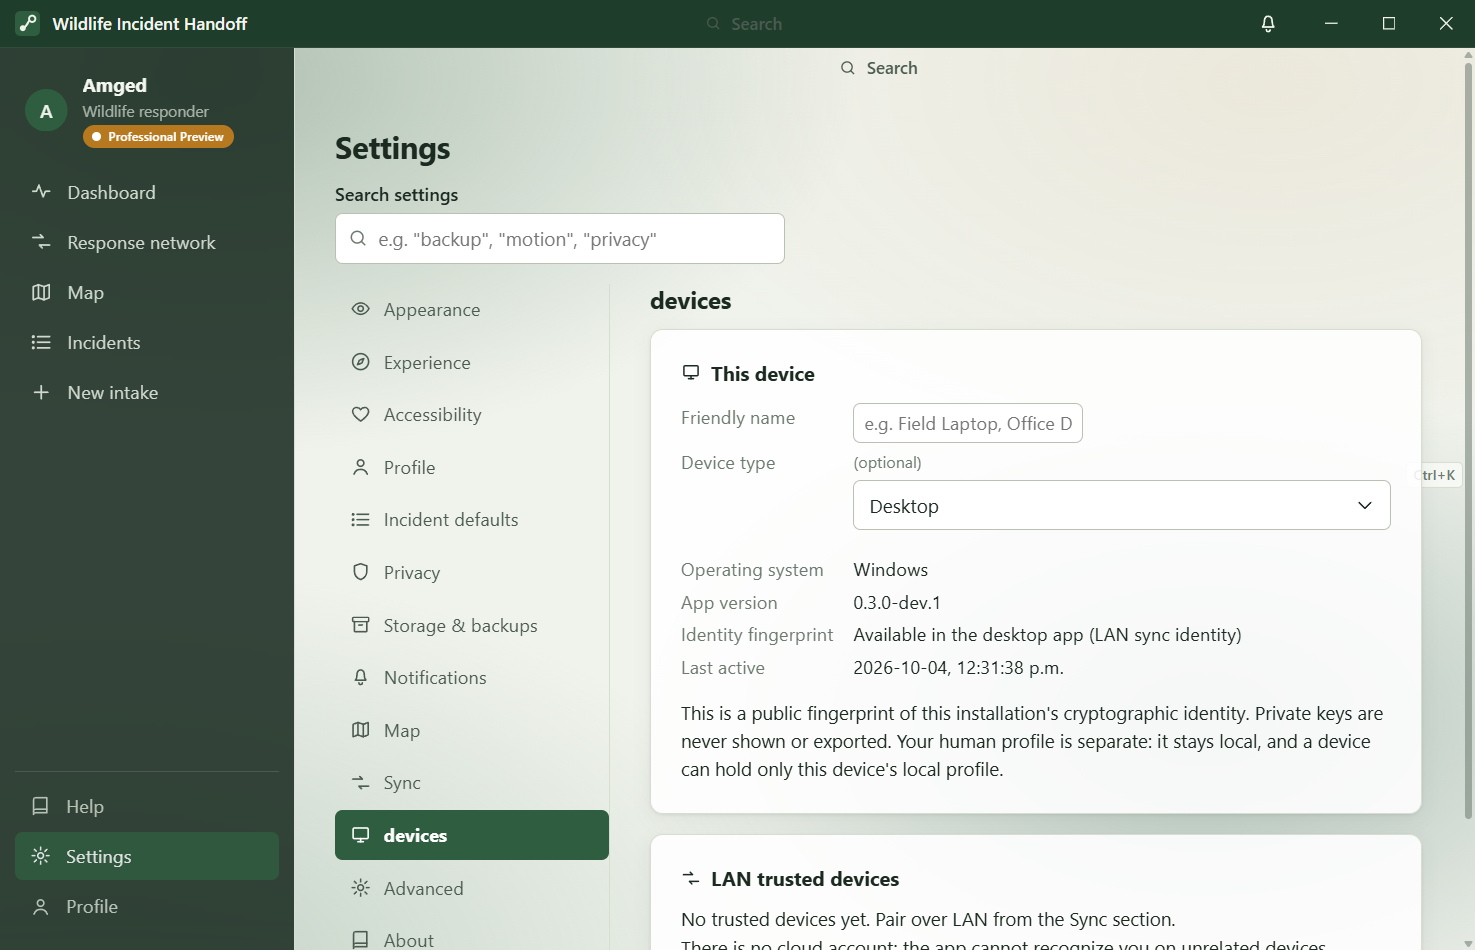
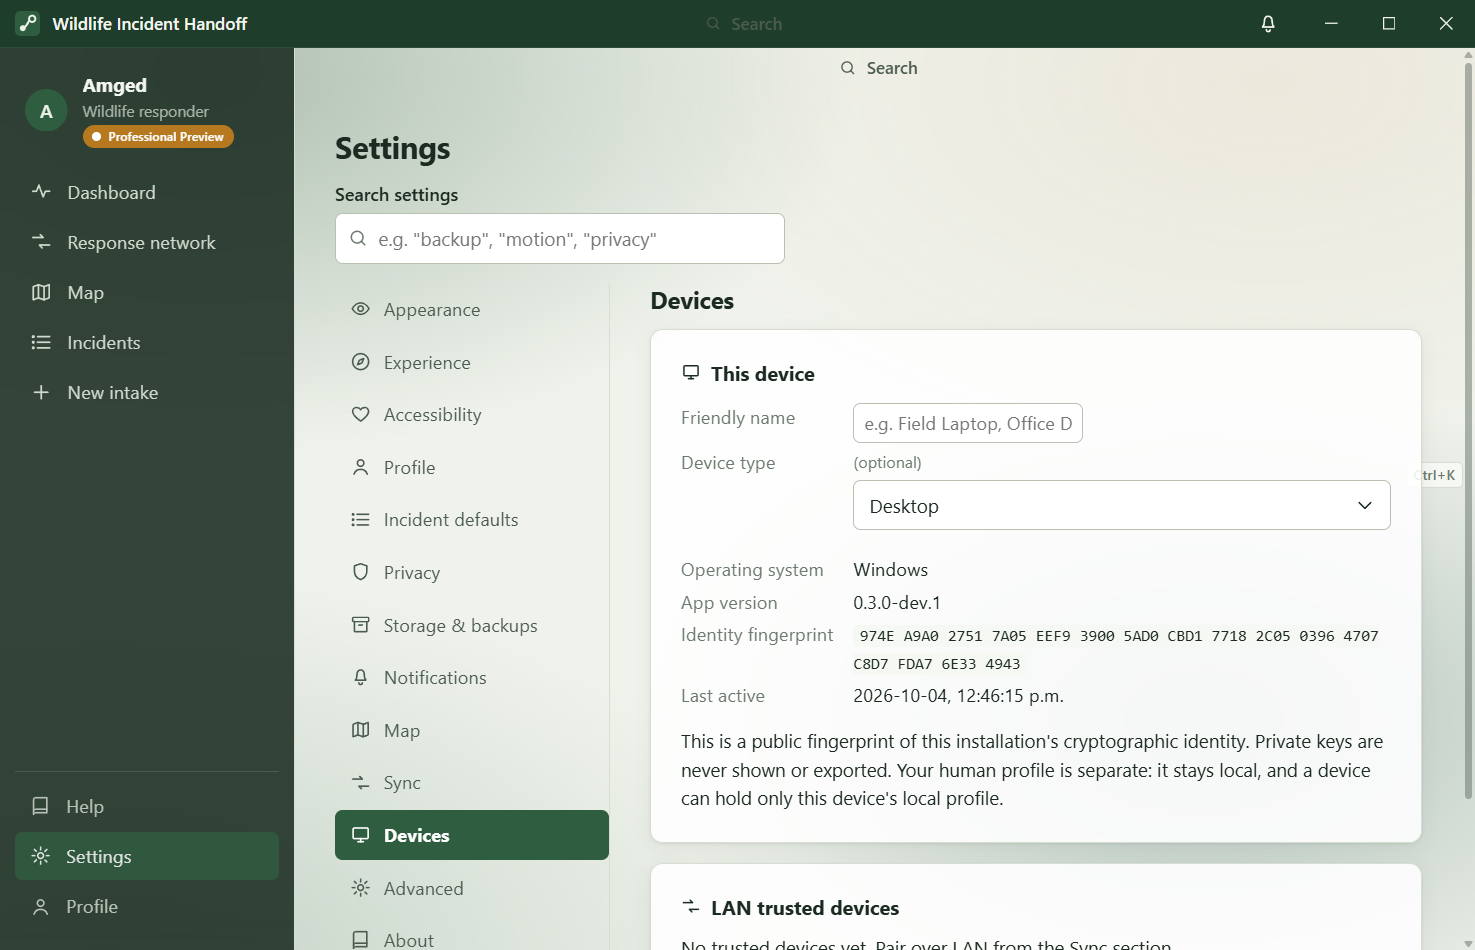
feat(0.3): device identity visible without starting sync — lan_sync_ensure_identity (loads/creates the persistent keypair, public fingerprint only); Device Center fallback; GUI before/after doc; final EXE rebuilt + smoke 7/7

diff --git a/src/features/devices/DeviceCenter.tsx b/src/features/devices/DeviceCenter.tsx
@@ -16,7 +16,7 @@ import { useEffect, useState } from "react";
 import { useTranslation } from "react-i18next";
 import { useApp } from "../../app/AppContext";
 import { APP_VERSION } from "../../version";
-import { lanIdentity, lanRevoke, type LanIdentity } from "../sync/lanSync";
+import { lanIdentity, lanRevoke, invokeOptional, type LanIdentity } from "../sync/lanSync";
 import { Icons } from "../../components/Icons";
 import { Select } from "../../components/Select";
 
@@ -75,7 +75,16 @@ export function DeviceCenter() {
 
   useEffect(() => {
     let alive = true;
-    lanIdentity()
+    const load = async (): Promise<LanIdentity> => {
+      try {
+        return await lanIdentity();
+      } catch {
+        // Identity may not be loaded yet (sync never started this session):
+        // ask the backend to load/create it WITHOUT starting the server.
+        return invokeOptional<LanIdentity>("lan_sync_ensure_identity");
+      }
+    };
+    load()
       .then((id) => { if (alive) setDirectIdentity(id); })
       .catch(() => { if (alive) setIdentityError(true); });
     return () => { alive = false; };

diff --git a/src/features/sync/lanSync.ts b/src/features/sync/lanSync.ts
@@ -242,6 +242,12 @@ export interface LanIdentity {
   publicKey: string;
 }
 
+/** invoke() that survives non-Tauri (web) contexts. */
+export async function invokeOptional<T>(cmd: string, args?: Record<string, unknown>): Promise<T> {
+  const { invoke } = await import("@tauri-apps/api/core");
+  return invoke<T>(cmd, args);
+}
+
 export async function lanIdentity(): Promise<LanIdentity> {
   return invoke<LanIdentity>("lan_sync_identity");
 }

diff --git a/src-tauri/src/lan_sync.rs b/src-tauri/src/lan_sync.rs
@@ -142,6 +142,37 @@ fn chrono_now() -> String {
     format!("{}ms", std::time::SystemTime::now().duration_since(std::time::UNIX_EPOCH).map(|d| d.as_millis()).unwrap_or(0))
 }
 
+/// Load (or create) the persistent device identity WITHOUT starting the LAN
+/// server. Used by the Device Center so the public fingerprint is visible
+/// even when sync is disabled. Private keys stay on disk; only the public
+/// fingerprint/public key are returned to the frontend.
+#[tauri::command]
+pub fn lan_sync_ensure_identity(state: State<LanSyncManaged>, app: AppHandle) -> Result<serde_json::Value, String> {
+    if state.identity.lock().map_err(|_| "lock")?.is_some() {
+        return lan_sync_identity(state);
+    }
+    let mut dir: PathBuf = app.path().app_data_dir().map_err(|e| e.to_string())?;
+    if let Ok(profile) = std::env::var("WIH_PROFILE") {
+        let profile = profile.trim();
+        if !profile.is_empty() && profile.chars().all(|c| c.is_ascii_alphanumeric() || c == '-' || c == '_') {
+            dir = dir.join(profile);
+        }
+    }
+    *state.data_dir.lock().map_err(|_| "lock")? = dir.clone();
+    let identity = load_or_create_identity(&dir)?;
+    *state.identity.lock().map_err(|_| "lock")? = Some(identity.clone());
+    if state.trust.lock().map_err(|_| "lock")?.peers.is_empty() {
+        *state.trust.lock().map_err(|_| "lock")? = load_trust(&dir);
+    }
+    let (_sk, public_key) = identity;
+    let fp = crypto::fingerprint(&public_key)?;
+    Ok(serde_json::json!({
+        "fingerprint": fp,
+        "fingerprintFormatted": crypto::format_fingerprint(&fp),
+        "publicKey": public_key,
+    }))
+}
+
 #[tauri::command]
 pub fn lan_sync_start(state: State<LanSyncManaged>, app: AppHandle, port: u16) -> Result<String, String> {
     let mut dir: PathBuf = app.path().app_data_dir().map_err(|e| e.to_string())?;

diff --git a/src-tauri/src/main.rs b/src-tauri/src/main.rs
@@ -63,6 +63,7 @@ fn main() {
             lan_sync::lan_sync_set_snapshot,
             lan_sync::lan_sync_take_inbox,
             lan_sync::lan_sync_identity,
+            lan_sync::lan_sync_ensure_identity,
             lan_sync::lan_sync_new_pairing_code,
             lan_sync::lan_sync_close_pairing,
             lan_sync::lan_sync_take_pair_requests,

diff --git a/docs/V030_GUI_BEFORE_AFTER.md b/docs/V030_GUI_BEFORE_AFTER.md
@@ -1,0 +1,82 @@
+# 0.3.0 GUI Before / After Report
+
+All "before" screenshots come from the real dev.19 portable EXE; all "after"
+screenshots from the compiled `0.3.0-dev.1` desktop EXE (WebView2, CDP).
+Paths are relative to the repository root.
+
+## 1. Operations dashboard
+
+- **Problem**: dev.19 rendered "Needs Attention" as narrow cards stacked down
+  the far-left beside a giant black void; the header was a generic "Live
+  local operations" strip; the response flow started in a visually ambiguous
+  state and its case list disagreed with its counts.
+- **Before**: `screenshots/v030-before/network.png`
+- **After**: `screenshots/v030-after/dashboard.png`
+- **Rationale**: personalized command header (`Welcome, Amged`, weekday,
+  open/assignment/handoff counters, honest network badge); attention became a
+  responsive prioritized band spanning the full width; widgets fill the grid.
+
+## 2. Response flow
+
+- **Problem**: stage counts and the case drawer used two different data paths
+  (Pickup showed 3; selecting it showed "0 case(s)"); a stage could appear
+  pre-selected; selection was a heavy filled card.
+- **Before**: `screenshots/v030-before/network-2.png`
+- **After**: `screenshots/v030-after/dashboard.png` (rail, nothing selected)
+  and `screenshots/v030-after/response-flow-selected.png` (node ring +
+  underline + compact drawer whose count matches the stage).
+- **Rationale**: one canonical query (invariant-tested); selection is a node
+  ring + accent underline, never a giant card; drawer animates open with
+  bounded rows.
+
+## 3. Incidents
+
+- **Problem**: a plain searchable card list; no operational context, no table,
+  no fast inspection.
+- **Before**: `screenshots/v030-before/incidents.png`
+- **After**: `screenshots/v030-after/incidents-list.png`,
+  `incidents-table.png`, `incident-inspector.png`
+- **Rationale**: summary band (each stat filters), sortable table, side
+  inspector, compact density — all bounded for 10k-record stores.
+
+## 4. Profile & identity
+
+- **Problem**: the paw was the person's default avatar and the app mark;
+  decorative ring options (Leaves/Wood/Rope/Stars) added noise; "(optional)"
+  labels were duplicated.
+- **Before**: `screenshots/v030-before/profile.png`
+- **After**: `screenshots/v030-after/profile.png`
+- **Rationale**: initials/silhouette avatar with one subtle ring; new
+  handoff-relay app mark in the titlebar/sidebar/icons; opt-in recognition
+  card states there is no leaderboard.
+
+## 5. Devices & country
+
+- **Problem**: the strong cryptographic device identity was invisible; the
+  country dropdown looked like a browser `<select>` and did almost nothing.
+- **After**: `screenshots/v030-after/devices.png`,
+  `screenshots/v030-after/appearance.png`
+- **Rationale**: Settings → Devices shows friendly name, type, OS, version,
+  public fingerprint, trusted peers with revoke; the country combobox is
+  searchable/keyboard-accessible with an honest effects note.
+
+## 6. Themes & materials
+
+- **Problem**: only two genuinely distinct dark themes; Monochrome Dark
+  statuses/surfaces were hard to distinguish; no window material choice.
+- **After**: `screenshots/v030-after/theme-*.png` (Forest Night, Midnight
+  Ops, Storm, Aurora, mono-dark, Forest Light, Sand) and
+  `material-solid/frosted/glass.png`
+- **Rationale**: six new themes with complete status palettes + ambient
+  character; monochrome got deeper surface separation + shape glyphs;
+  frosted/glass keep data surfaces near-solid and honor OS
+  reduce-transparency.
+
+## 7. Help, integrity review, home
+
+- **After**: `screenshots/v030-after/help.png`, `integrity-review.png`,
+  `home.png`
+- **Rationale**: new Help articles (response flow, integrity, devices,
+  recognition, country, palette, themes); integrity review is a
+  dismiss-per-report queue with "never proof of fraud" wording; Home is the
+  personal entry point vs the Dashboard's command center.
